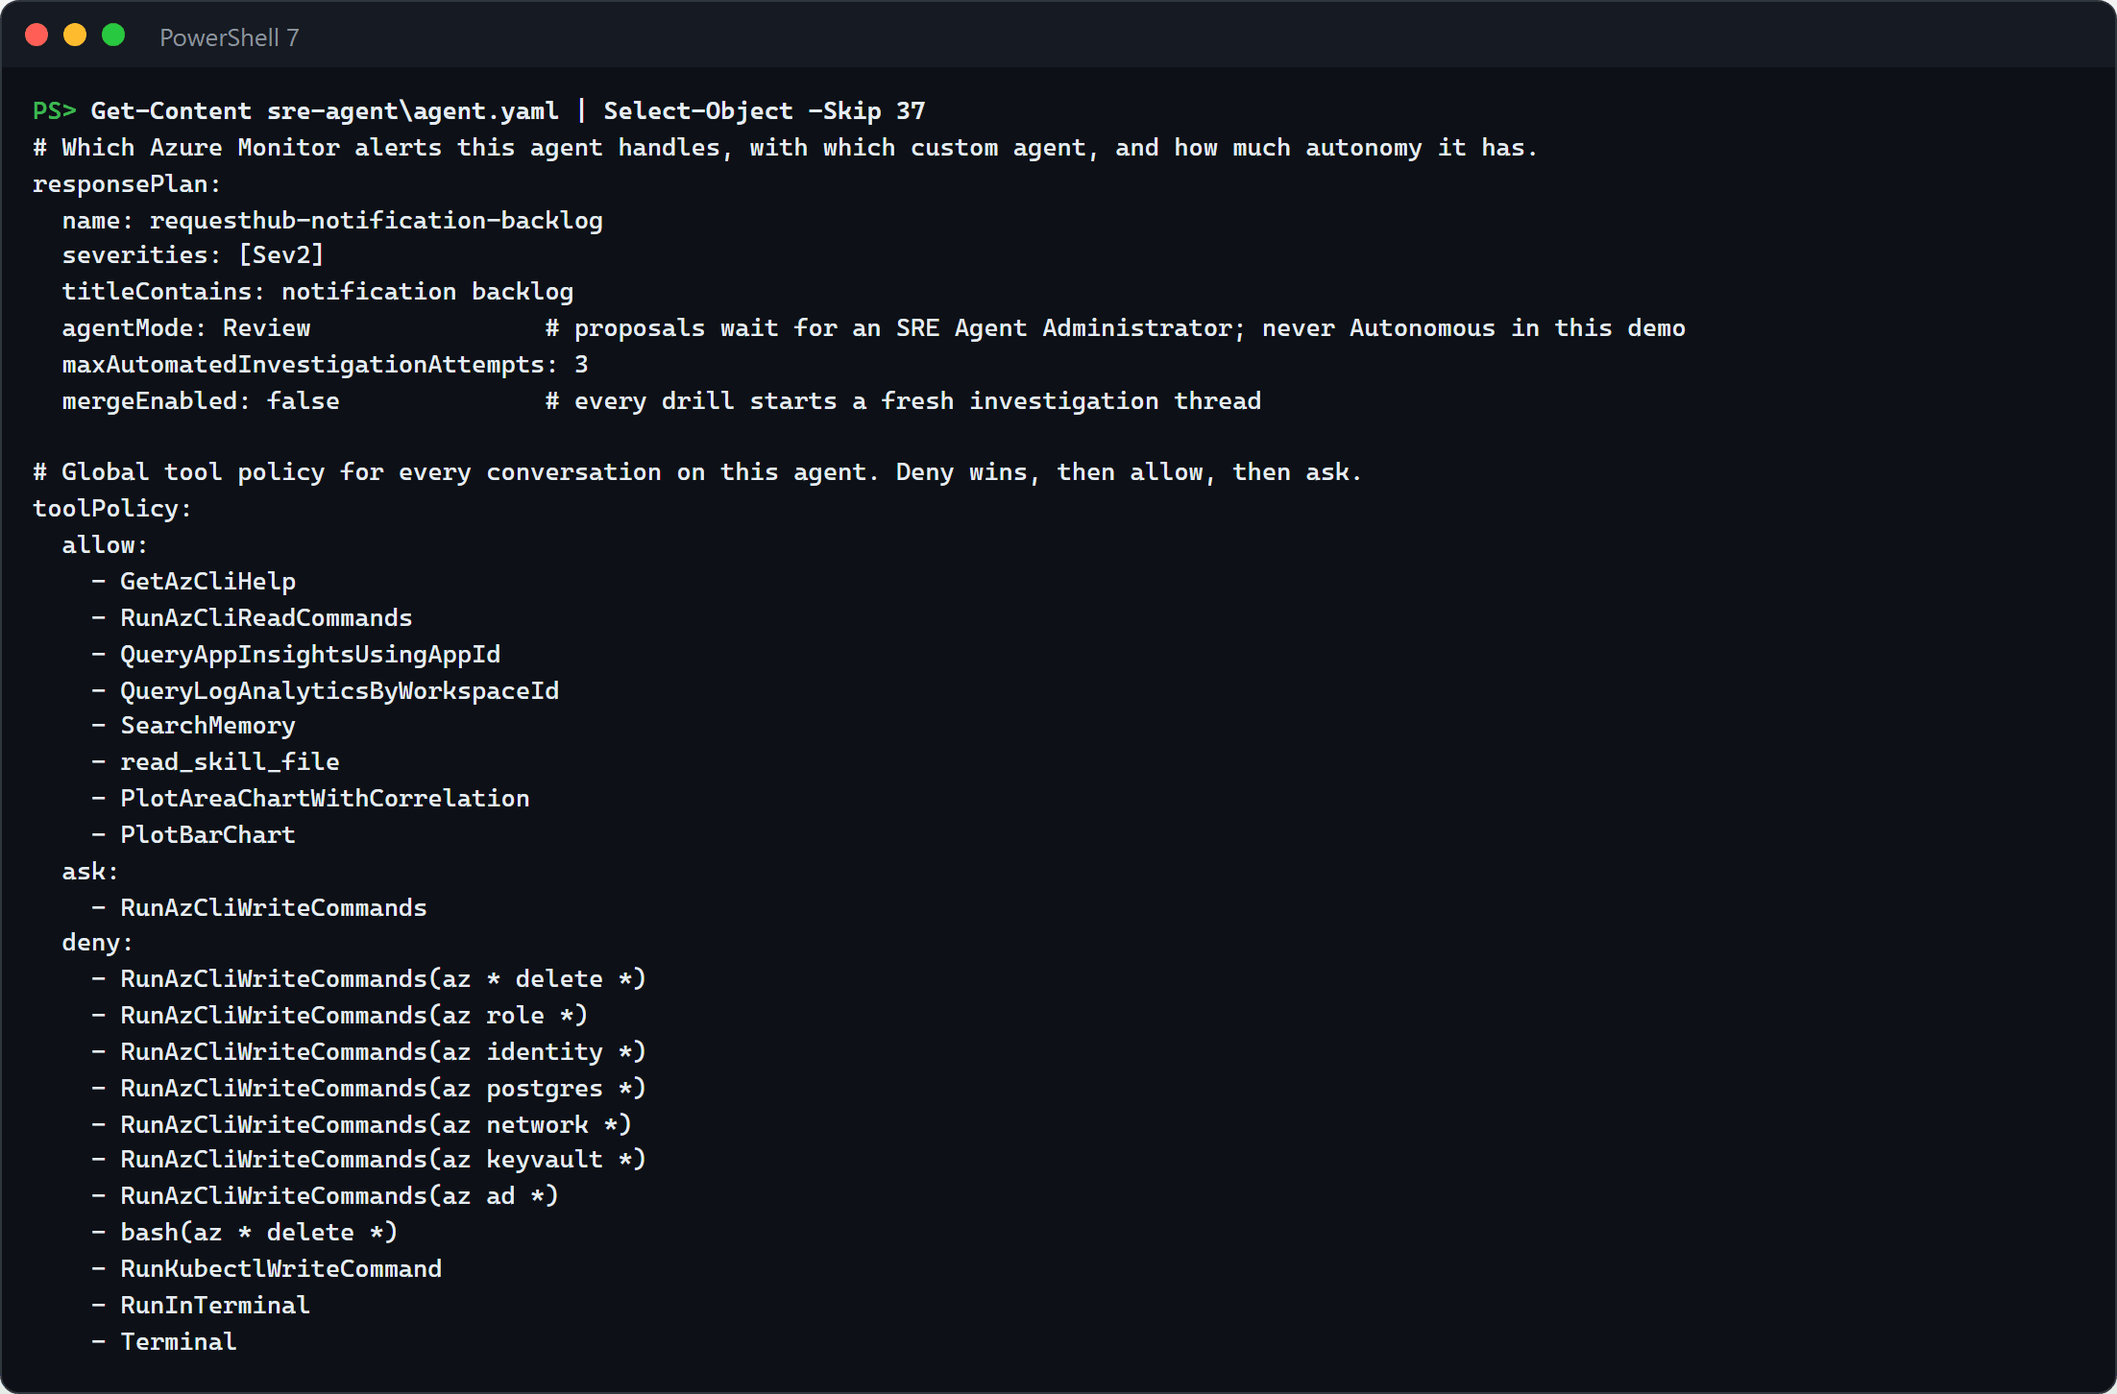
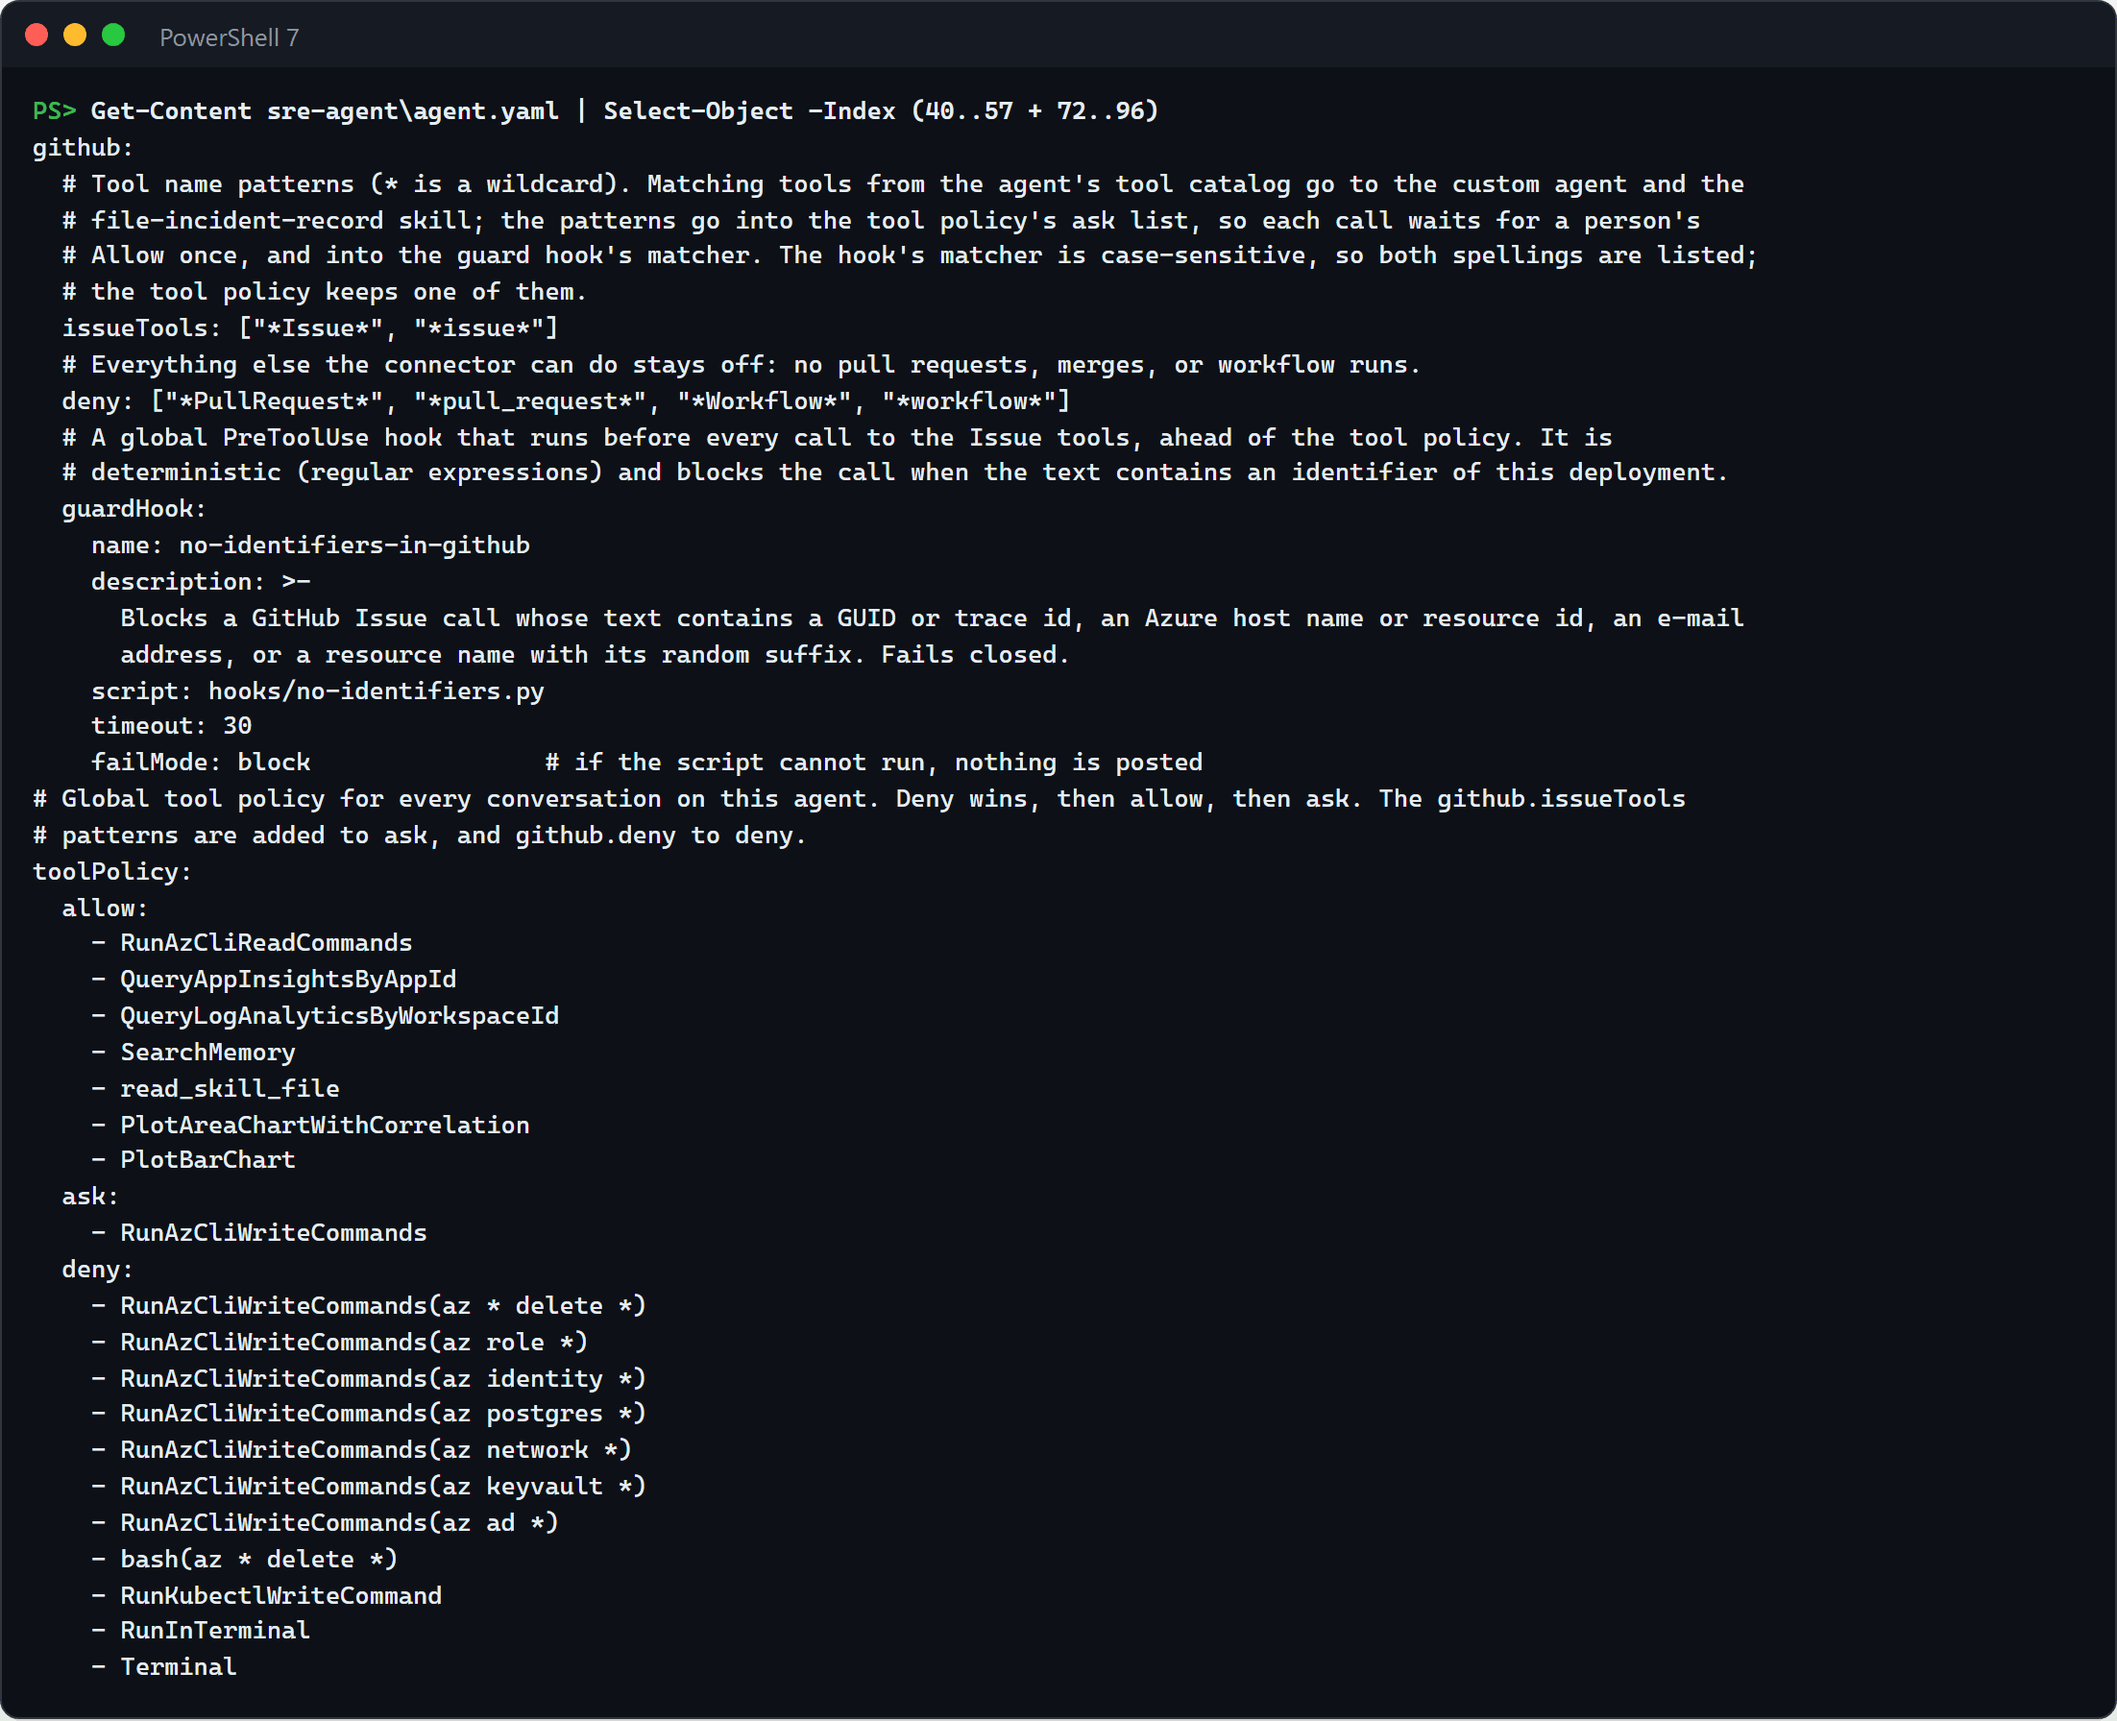
Operate · Microsoft: guard hook description and portal screenshot; agent.yaml image; remove obsolete images

Changed region(s): [[0.0, 0.062, 1.0, 1.0], [0.0, 0.0, 0.1234, 0.031]]

diff --git a/solutions/07-operate-microsoft/sre-agent/hooks/no-identifiers.py b/solutions/07-operate-microsoft/sre-agent/hooks/no-identifiers.py
@@ -9,15 +9,13 @@ a random suffix. Otherwise it prints nothing, so the agent's tool policy decides
 to select Allow once.
 
 It is deterministic (regular expressions, no model) and uses only the Python standard library. configure_sre_agent.py
-fills in SUFFIXES below with the random suffixes of this deployment's resource names when it applies the hook, and runs
-the script against good and bad samples in `python configure_sre_agent.py --check`.
+fills in SUFFIXES at the end of this file with the random suffixes of this deployment's resource names when it applies
+the hook, and runs the script against good and bad samples in `python configure_sre_agent.py --check`.
 """
 import json
 import re
 import sys
 
-# The random suffixes in this deployment's resource names (comma-separated), filled in when the hook is applied.
-SUFFIXES = [s for s in "{{RESOURCE_SUFFIXES}}".split(",") if re.fullmatch(r"[a-z0-9]{6,}", s)]
 # Public, tenant-independent host names that may appear in an Issue.
 PUBLIC_HOSTS = {"portal.azure.com", "sre.azure.com", "management.azure.com", "learn.microsoft.com"}
 
@@ -88,6 +86,9 @@ def main() -> int:
     # No output: no objection. The tool policy decides, and GitHub writes wait for a person's Allow once.
     return 0
 
+
+# The random suffixes in this deployment's resource names (comma-separated), filled in when the hook is applied.
+SUFFIXES = [s for s in "{{RESOURCE_SUFFIXES}}".split(",") if re.fullmatch(r"[a-z0-9]{6,}", s)]
 
 if __name__ == "__main__":
     sys.exit(main())

diff --git a/solutions/07-operate-microsoft/configure_sre_agent.py b/solutions/07-operate-microsoft/configure_sre_agent.py
@@ -367,7 +367,8 @@ def build(config: Config, extra: dict[str, str], github_tools: list[str]) -> dic
         },
         "guardHook": {
             "name": guard["name"], "type": "GlobalHook", "tags": [],
-            "properties": {"eventType": "PreToolUse", "enabled": True, "hook": {
+            "properties": {"eventType": "PreToolUse", "enabled": True, "description": guard.get("description", ""),
+                           "hook": {
                 "type": "command", "script": render(config.guard_script, extra), "matcher": glob_regex(issue_patterns),
                 "timeout": int(guard.get("timeout", 30)), "failMode": guard["failMode"]}},
         },

diff --git a/solutions/07-operate-microsoft/README.md b/solutions/07-operate-microsoft/README.md
@@ -257,7 +257,7 @@ About 5 minutes, at least 15 minutes before you present.
 
 ## Run the demo
 
-Run the commands in this folder. The screenshots come from one live run of this drill.
+Run the commands in this folder. The screenshots of steps 2 to 7 come from one live run of this drill.
 
 1. **Show the starting state and the guardrails** (3 minutes). The workbook's **Ready for a drill** table is all
    **Ready** (see [Before each session](#before-each-session)). In the SRE Agent portal, open **Incidents**, then
@@ -265,10 +265,16 @@ Run the commands in this folder. The screenshots come from one live run of this 
 
    ![SRE Agent portal, Incidents, Triggers & response plans: requesthub-notification-backlog is On, handled by notification-backlog-responder, Sev2, autonomy level Review](images/01-response-plan.png)
 
-   Show the same configuration as code in [`sre-agent/agent.yaml`](sre-agent/agent.yaml): the GitHub Issue tools,
-   the guard hook, and the tool policy.
+   Then open **Build + setup**, **Hooks**, and select the edit button of `no-identifiers-in-github`. The guard is a
+   Python script that runs in Azure before every GitHub Issue call, and its fail mode is **Block**. Close it with
+   **Cancel**.
 
-   ![sre-agent/agent.yaml: the GitHub section with the Issue tool patterns, the pull request and workflow patterns it denies, and the guard hook that fails closed; the response plan in Review mode; and the tool policy that allows reads, asks before Azure CLI writes, and denies deletes and identity, role, PostgreSQL, network, Key Vault, and Microsoft Entra commands](images/01-agent-yaml.png)
+   ![The guard hook in the SRE Agent portal: Edit hook shows no-identifiers-in-github with event type Pre Tool Use, activation Always, hook type Command, tool matcher .*Issue.*|.*issue.*, timeout 30, fail mode Block, and the start of its Python script with the GUID, hex id, and host name patterns](images/01-guard-hook.png)
+
+   The same configuration is versioned in [`sre-agent/agent.yaml`](sre-agent/agent.yaml), and `azd provision`
+   applies it:
+
+   ![sre-agent/agent.yaml: the GitHub section with the Issue tool patterns, the pull request and workflow patterns it denies, and the guard hook that fails closed; then the tool policy that allows reads, asks before Azure CLI writes, and denies deletes and role, identity, PostgreSQL, network, Key Vault, and Microsoft Entra commands](images/01-agent-yaml.png)
 
    In the Azure portal, the resource group's **Access control (IAM)** shows that the agent's identities only have
    reader roles.
